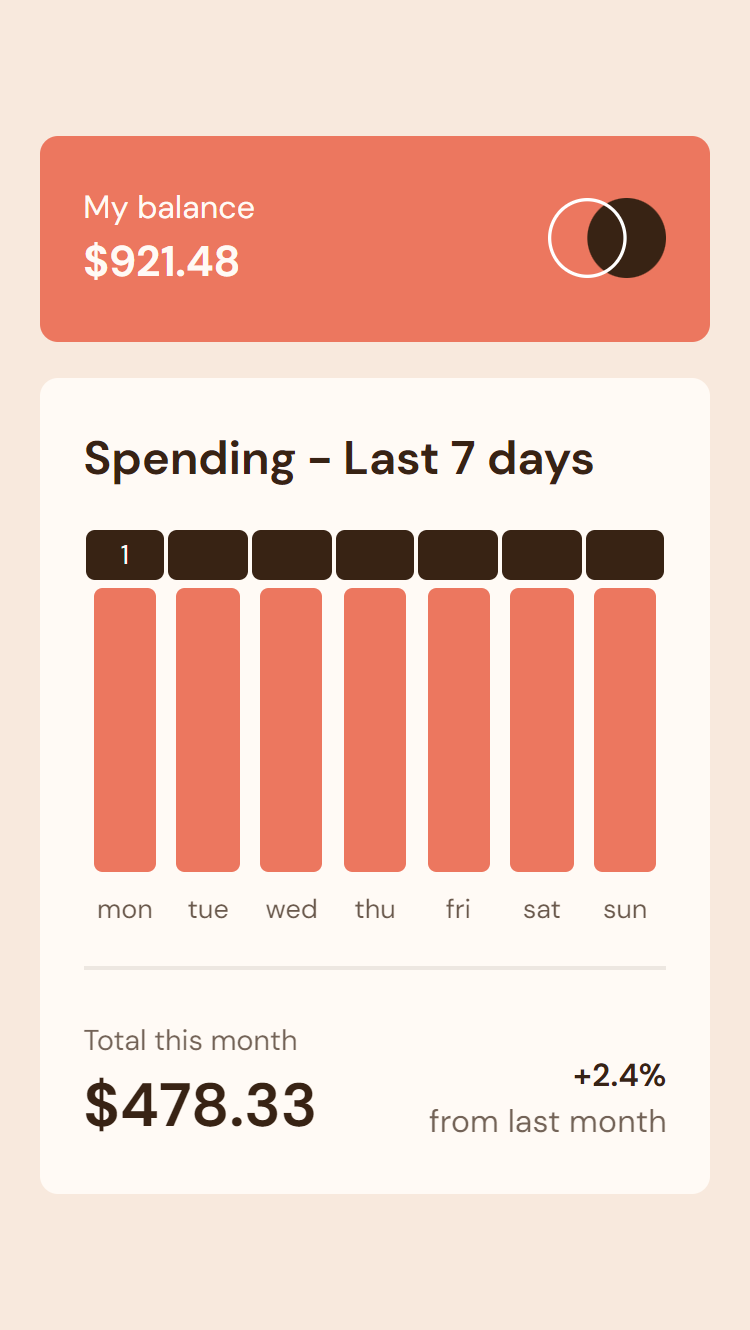
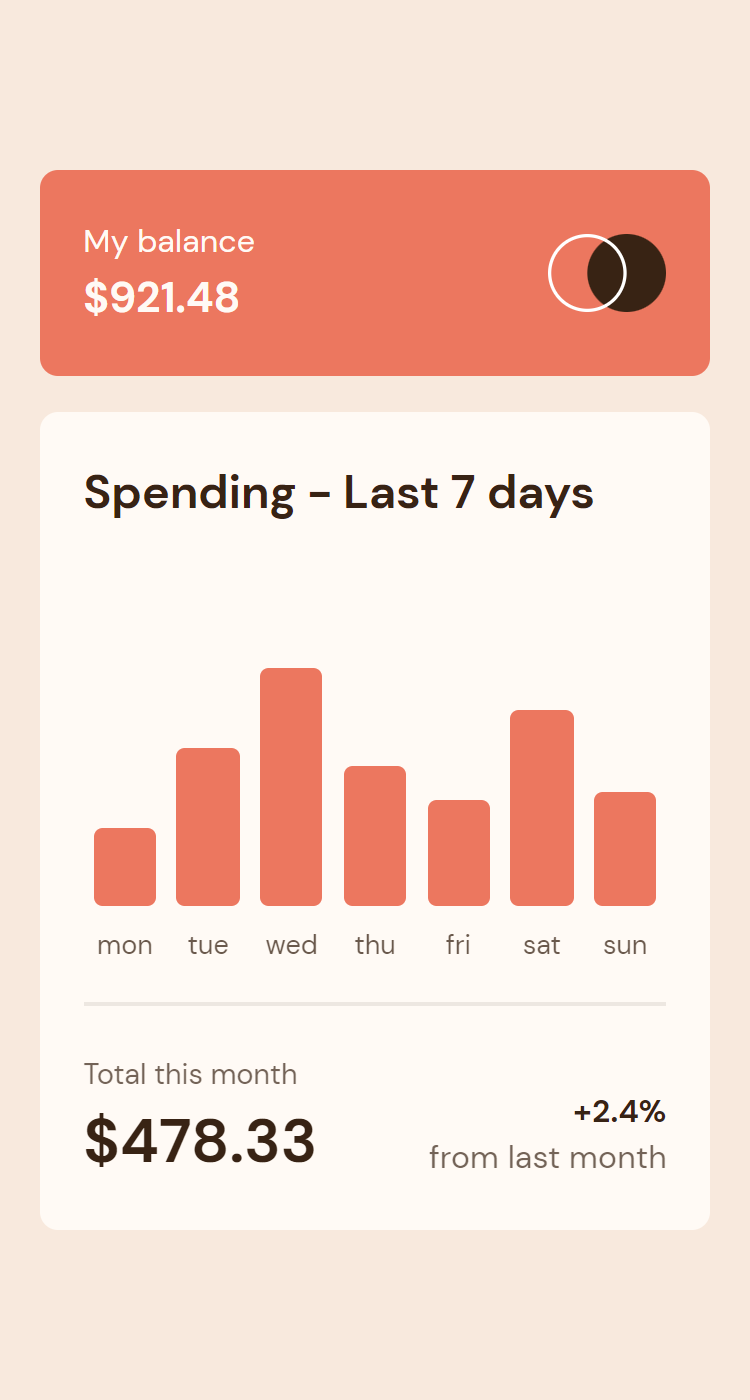
Script + markdown, style correction

diff --git a/expenses-chart-component-main/script.js b/expenses-chart-component-main/script.js
@@ -1,0 +1,32 @@
+const scales = document.querySelectorAll(".graph__scale");
+
+function allignCosts(data, domItems){
+	const maxAmount = findMax(data);
+	data.forEach((day) =>{
+		domItems.forEach((scale) =>{
+			if (day["day"] === scale.lastElementChild.innerHTML){
+				scale.firstElementChild.innerHTML = `$${day["amount"]}`;
+				scale.querySelector(".graph__scale--bar").style.height = `${day["amount"]/maxAmount*60}%`;
+			}
+		})
+	})
+}
+
+function findMax(data) {
+	let numbers = [];
+	data.forEach((e) => {
+		numbers.push(e["amount"])
+	})
+	return Math.max(...numbers);
+}
+
+async function fet() {
+	let data;
+	await fetch("./data.json")
+	.then((response) => response.json())
+	.then((json) => data = json)
+	.catch((err) => console.log(err))
+	allignCosts(data, scales);
+};
+
+fet();

diff --git a/expenses-chart-component-main/styles.css b/expenses-chart-component-main/styles.css
@@ -96,7 +96,7 @@ body {
 .graph__scale {
   display: flex;
   flex-direction: column;
-  justify-content: center;
+  justify-content: flex-end;
   align-items: center;
   gap: 0.2rem;
   flex: 1;
@@ -108,7 +108,7 @@ body {
   justify-content: center;
   align-items: center;
   color: hsl(33, 100%, 98%);
-  font-size: 0.75rem;
+  font-size: 0.6rem;
   height: 1.4rem;
   border-radius: 0.25rem;
   background-color: hsl(25, 47%, 15%);
@@ -116,7 +116,6 @@ body {
 }
 
 .graph__scale--bar {
-  flex: 1;
   border-radius: 0.24rem;
   width: 75%;
   background-color: hsl(10, 79%, 65%);
@@ -181,6 +180,6 @@ body {
     font-size: 24px;
   }
   .card {
-    width: 540px;
+    width: 520px;
   }
 }/*# sourceMappingURL=styles.css.map */

diff --git a/expenses-chart-component-main/README.md b/expenses-chart-component-main/README.md
@@ -1,97 +1,54 @@
-# Frontend Mentor - Expenses chart component
+# Frontend Mentor - Expences Chart Component Main
 
-![Design preview for the Expenses chart component coding challenge](./design/desktop-preview.jpg)
+This is a solution to the [Advice generator app challenge on Frontend Mentor](https://www.frontendmentor.io/challenges/advice-generator-app-QdUG-13db). Frontend Mentor challenges help you improve your coding skills by building realistic projects.
 
-## Welcome! 👋
+## Table of contents
 
-Thanks for checking out this front-end coding challenge.
+- [Overview](#overview)
+  - [The challenge](#the-challenge)
+  - [Screenshot](#screenshot)
+  - [Links](#links)
+- [My process](#my-process)
+  - [Built with](#built-with)
+- [Author](#author)
 
-[Frontend Mentor](https://www.frontendmentor.io) challenges help you improve your coding skills by building realistic projects.
+## Overview
 
-**To do this challenge, you need a decent understanding of HTML, CSS and JavaScript.**
+### The challenge
 
-## The challenge
-
-Your challenge is to build out this bar chart component and get it looking as close to the design as possible.
-
-You can use any tools you like to help you complete the challenge. So if you've got something you'd like to practice, feel free to give it a go.
-
-We provide the data for the chart in a local `data.json` file. So you can use that to dynamically add the bars if you choose.
-
-Your users should be able to:
+Users should be able to:
 
 - View the bar chart and hover over the individual bars to see the correct amounts for each day
-- See the current day's bar highlighted in a different colour to the other bars
-- View the optimal layout for the content depending on their device's screen size
+- See the current day’s bar highlighted in a different colour to the other bars
+- View the optimal layout for the content depending on their device’s screen size
 - See hover states for all interactive elements on the page
-- **Bonus**: See dynamically generated bars based on the data provided in the local JSON file
+- **Bonus**: Use the JSON data file provided to dynamically size the bars on the chart
 
-Want some support on the challenge? [Join our Slack community](https://www.frontendmentor.io/slack) and ask questions in the **#help** channel.
+### Screenshot
 
-## Where to find everything
+Mobile:  
+![](./screenshots/mobile.png)
 
-Your task is to build out the project to the designs inside the `/design` folder. You will find both a mobile and a desktop version of the design. 
+Desktop:  
+![](./screenshots/desktop.png)
 
-The designs are in JPG static format. Using JPGs will mean that you'll need to use your best judgment for styles such as `font-size`, `padding` and `margin`. 
+### Links
 
-If you would like the design files (we provide Sketch & Figma versions) to inspect the design in more detail, you can [subscribe as a PRO member](https://www.frontendmentor.io/pro).
+- Solution URL: [https://github.com/BeltserG/challenges/tree/master/expenses-chart-component-main](https://github.com/BeltserG/challenges/tree/master/expenses-chart-component-main)
+- Live Site URL: [https://beltserg.github.io/challenges/expenses-chart-component-main/](https://beltserg.github.io/challenges/expenses-chart-component-main/)
 
-You will find all the required assets in the `/images` folder. The assets are already optimized.
+## My process
 
-There is also a `style-guide.md` file containing the information you'll need, such as color palette and fonts.
+### Built with
 
-## Building your project
+- Semantic HTML5 markup
+- CSS, SASS
+- Flexbox
+- Mobile-first workflow
+- JavaScript fetch(), async/await, DOM manipulation
 
-Feel free to use any workflow that you feel comfortable with. Below is a suggested process, but do not feel like you need to follow these steps:
+## Author
 
-1. Initialize your project as a public repository on [GitHub](https://github.com/). Creating a repo will make it easier to share your code with the community if you need help. If you're not sure how to do this, [have a read-through of this Try Git resource](https://try.github.io/).
-2. Configure your repository to publish your code to a web address. This will also be useful if you need some help during a challenge as you can share the URL for your project with your repo URL. There are a number of ways to do this, and we provide some recommendations below.
-3. Look through the designs to start planning out how you'll tackle the project. This step is crucial to help you think ahead for CSS classes to create reusable styles.
-4. Before adding any styles, structure your content with HTML. Writing your HTML first can help focus your attention on creating well-structured content.
-5. Write out the base styles for your project, including general content styles, such as `font-family` and `font-size`.
-6. Start adding styles to the top of the page and work down. Only move on to the next section once you're happy you've completed the area you're working on.
-
-## Deploying your project
-
-As mentioned above, there are many ways to host your project for free. Our recommend hosts are:
-
-- [GitHub Pages](https://pages.github.com/)
-- [Vercel](https://vercel.com/)
-- [Netlify](https://www.netlify.com/)
-
-You can host your site using one of these solutions or any of our other trusted providers. [Read more about our recommended and trusted hosts](https://medium.com/frontend-mentor/frontend-mentor-trusted-hosting-providers-bf000dfebe).
-
-## Create a custom `README.md`
-
-We strongly recommend overwriting this `README.md` with a custom one. We've provided a template inside the [`README-template.md`](./README-template.md) file in this starter code.
-
-The template provides a guide for what to add. A custom `README` will help you explain your project and reflect on your learnings. Please feel free to edit our template as much as you like.
-
-Once you've added your information to the template, delete this file and rename the `README-template.md` file to `README.md`. That will make it show up as your repository's README file.
-
-## Submitting your solution
-
-Submit your solution on the platform for the rest of the community to see. Follow our ["Complete guide to submitting solutions"](https://medium.com/frontend-mentor/a-complete-guide-to-submitting-solutions-on-frontend-mentor-ac6384162248) for tips on how to do this.
-
-Remember, if you're looking for feedback on your solution, be sure to ask questions when submitting it. The more specific and detailed you are with your questions, the higher the chance you'll get valuable feedback from the community.
-
-## Sharing your solution
-
-There are multiple places you can share your solution:
-
-1. Share your solution page in the **#finished-projects** channel of the [Slack community](https://www.frontendmentor.io/slack). 
-2. Tweet [@frontendmentor](https://twitter.com/frontendmentor) and mention **@frontendmentor**, including the repo and live URLs in the tweet. We'd love to take a look at what you've built and help share it around.
-3. Share your solution on other social channels like LinkedIn.
-4. Blog about your experience building your project. Writing about your workflow, technical choices, and talking through your code is a brilliant way to reinforce what you've learned. Great platforms to write on are [dev.to](https://dev.to/), [Hashnode](https://hashnode.com/), and [CodeNewbie](https://community.codenewbie.org/).
-
-We provide templates to help you share your solution once you've submitted it on the platform. Please do edit them and include specific questions when you're looking for feedback. 
-
-The more specific you are with your questions the more likely it is that another member of the community will give you feedback.
-
-## Got feedback for us?
-
-We love receiving feedback! We're always looking to improve our challenges and our platform. So if you have anything you'd like to mention, please email hi[at]frontendmentor[dot]io.
-
-This challenge is completely free. Please share it with anyone who will find it useful for practice.
-
-**Have fun building!** 🚀
+- GitHub - [BeltserG](https://github.com/BeltserG)
+- Frontend Mentor - [BeltserG](https://www.frontendmentor.io/profile/BeltserG)
+- Email - beltsergeorgy@gmail.com
